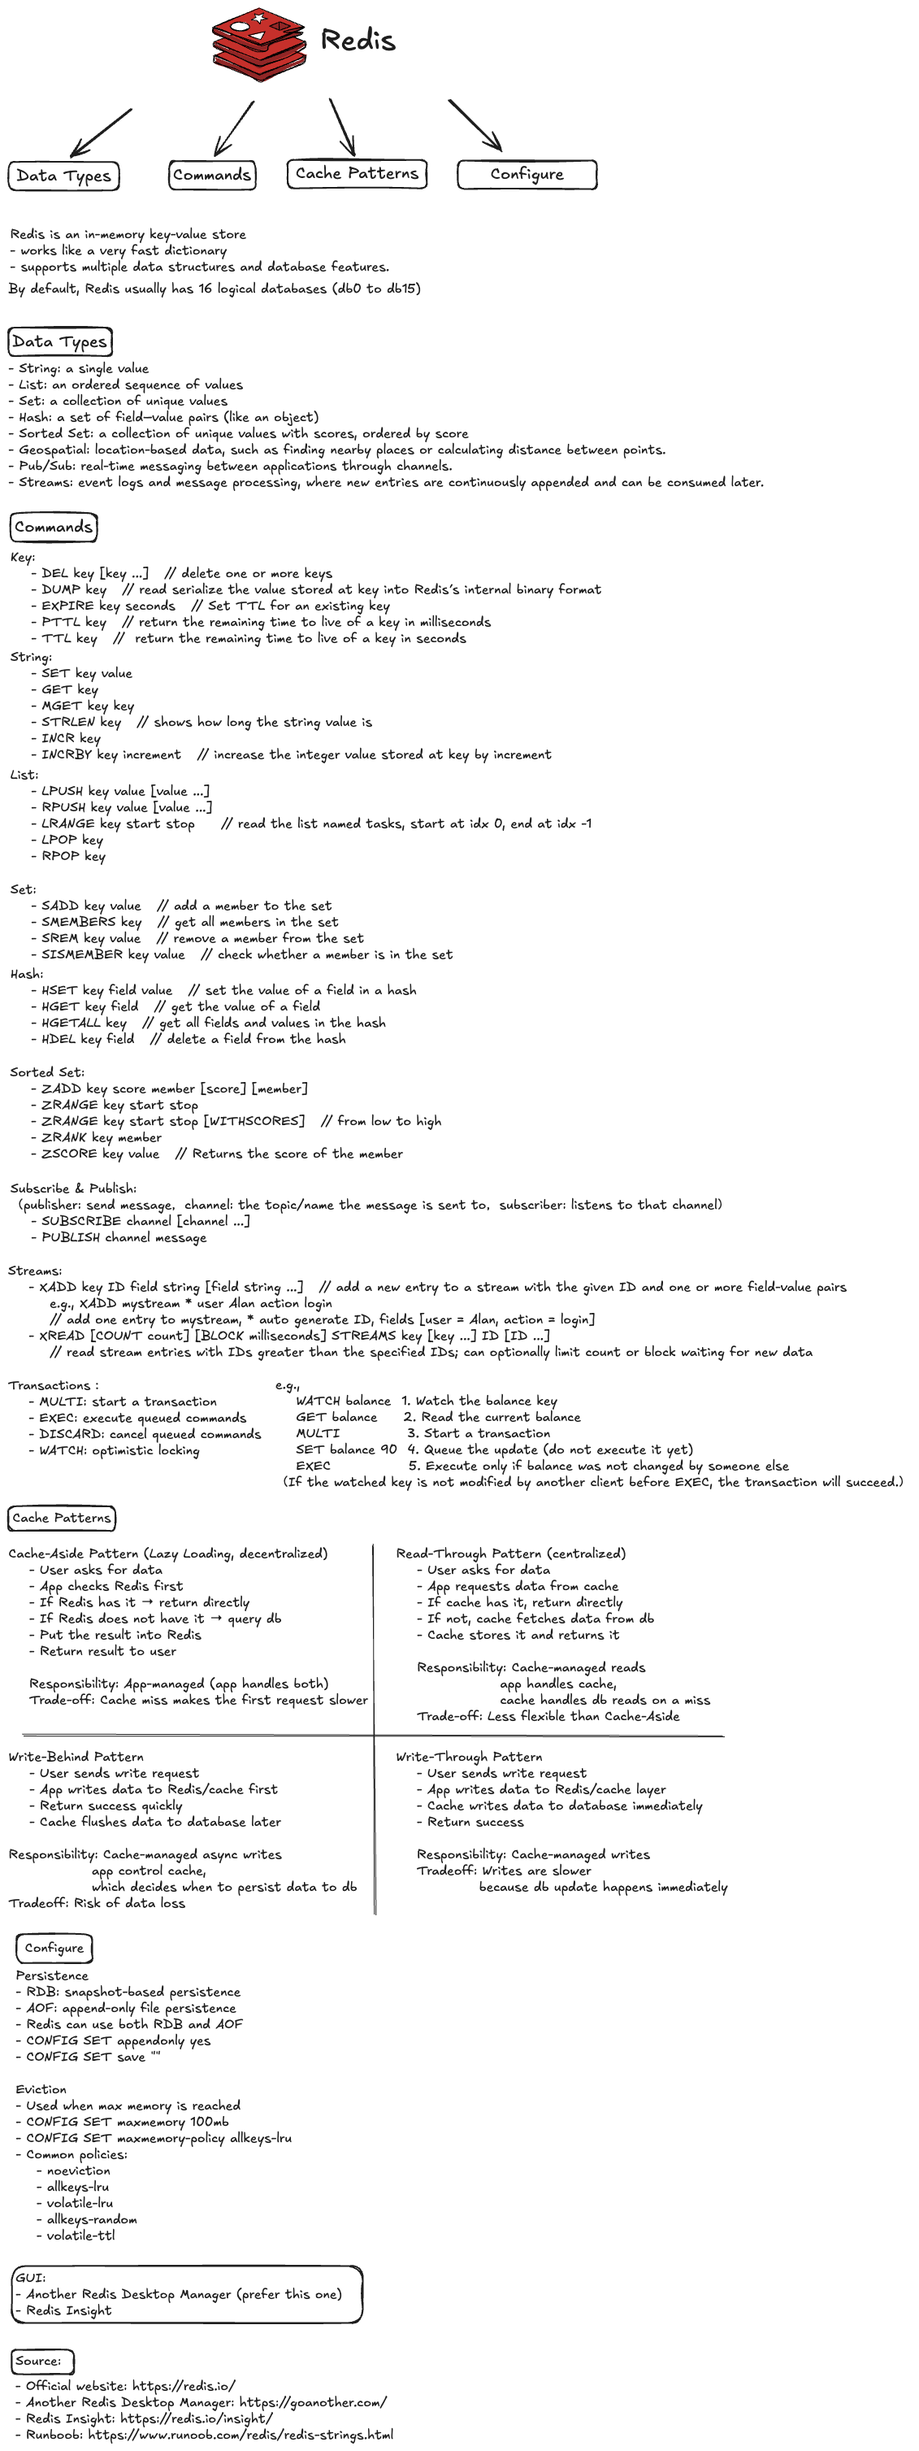
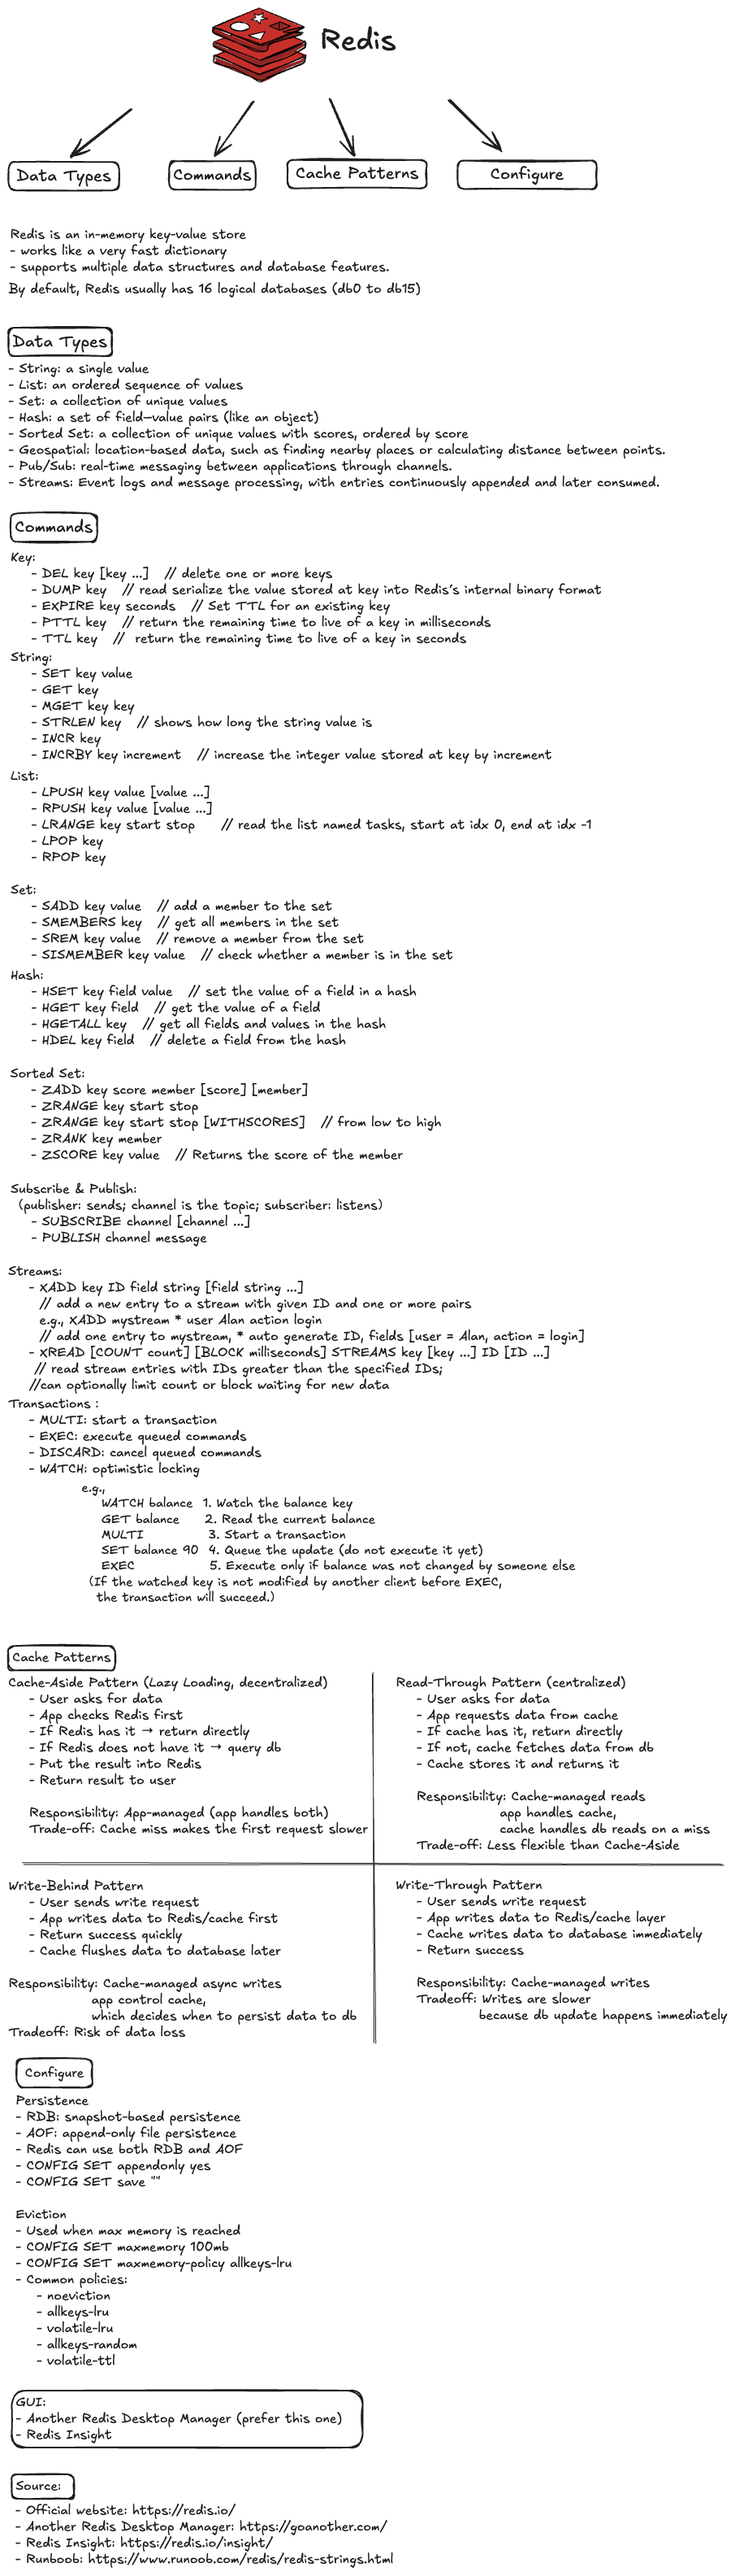
update post

diff --git a/src/posts/redis-overview.md b/src/posts/redis-overview.md
@@ -8,13 +8,13 @@ type: Sketch
 topic: Systems
 tags:
   - posts
-image: /assets/sketches/redis-overview.png
+image: /assets/sketches/redis-overview.svg
 imageFit: contain
 permalink: /posts/redis-overview/index.html
 ---
 This sketch is a compact Redis reference that I use as a structural overview rather than a full tutorial. It pulls together the parts that are easy to forget in practice: core data types, common commands, cache patterns, persistence choices, and a few operational notes.
 
-![Redis Overview](/assets/sketches/redis-overview.png)
+![Redis Overview](/assets/sketches/redis-overview.svg)
 
 ## What It Covers
 
